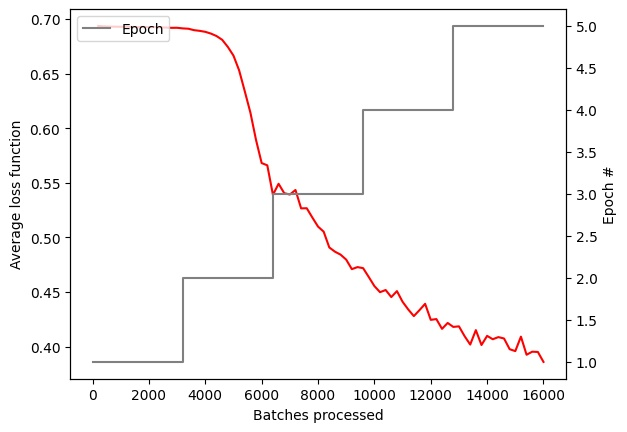
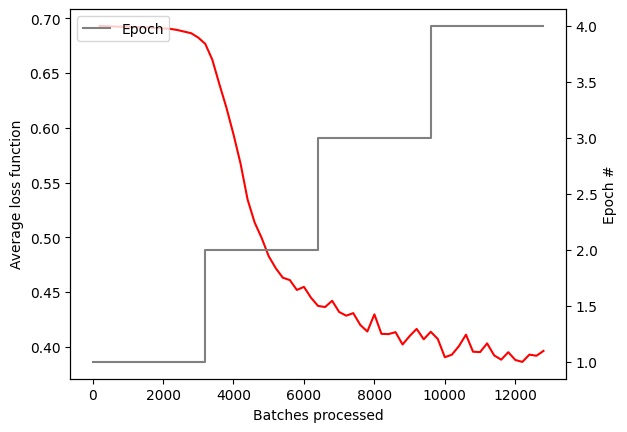
Remove weight decay

diff --git a/load_data.py b/load_data.py
@@ -40,7 +40,8 @@ net = Net()
 
 # for epoch in range(1, n_epochs+1):
 criterion = nn.CrossEntropyLoss()
-optimizer = optim.SGD(net.parameters(), lr=0.001, momentum=0.9, weight_decay=0.0001)
+optimizer = optim.SGD(net.parameters(), lr=0.001, momentum=0.9)
+""", weight_decay=0.0001"""
 
 #Visual variables
 loss_array = []
@@ -52,7 +53,7 @@ epoch_index = 1
 epoch_indicator.append(0)
 epoch_array.append(1)
 
-for epoch in range(10):  # loop over the dataset multiple times
+for epoch in range(4):  # loop over the dataset multiple times
     print("epoch: " + str(epoch))
     running_loss = 0.0
     varEnum = enumerate(train_loader)
